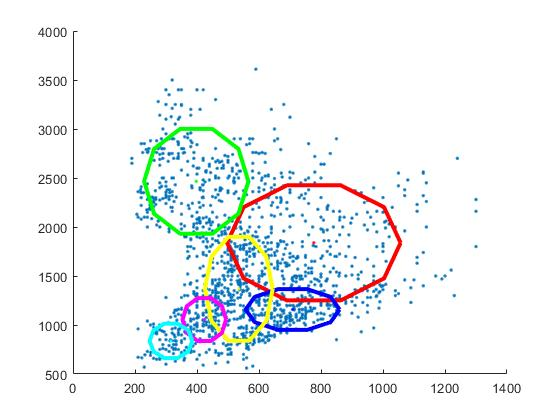
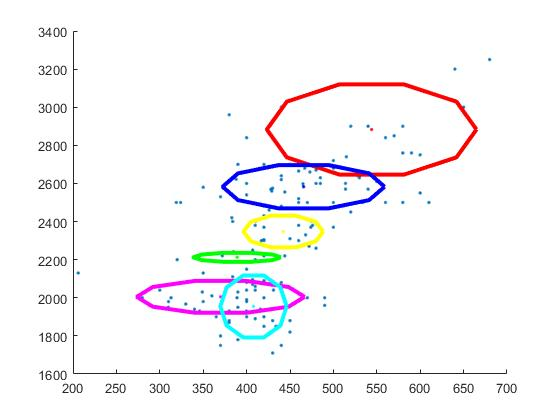
c

diff --git a/Assignment2-2017/code/bayes_classifier.m b/Assignment2-2017/code/bayes_classifier.m
@@ -1,0 +1,29 @@
+function z = bayes_classifier(mu,s2,p,x)
+
+%                m: the mean of the data
+%???????? S: covariance of the data
+%???????? P: data category distribution probability
+%???????? X: The data we need to test
+
+
+[mu_n,mu_k] = size(mu);
+[n, ~] = size(x);
+
+for i = 1:n
+    
+    for j = 1:mu_k
+        
+        z = ( 1/( (2*pi)^(1/2)*det(s2(:,:,j))^0.5 ) ) * exp( -0.5*(x(i,:)-mu(:,j))'*inv(s2(:,:,j)).*(x(i,:)-mu(:,j)') );
+        t(:,:,j) = p(1,j) .* z;
+        
+        
+    end
+    [~, ~,z(i)] = max(t,[],3);
+    
+  %  for j=1:mu_k
+  %      Z(:,j) = p(i)*det(s2(:,:,i))^(-0.5)*exp(-0.5*sum((x'-repmat(mu(:,:,j),1,n))'*inv(s2(:,:,j)).*(x'-repmat(mu(:,:,j),1,n))',2));
+  %  end
+  %  Z = Z./repmat(sum(Z,2),1,k);
+    
+end
+

diff --git a/Assignment2-2017/code/task3.m b/Assignment2-2017/code/task3.m
@@ -1,19 +1,16 @@
 
-x = [f1, f2];
+x = x1;
 [n, D] = size(x);
 
 
 
-mean = (sum(transpose(x))')/n;    % Mean
-variance = zeros(1);              % variance
+mean = (sum(x))/n;    % Mean
+variance = zeros(1,2);              % variance
 
 k = 3;                              % number of components
 for i = 1:n
-    variance = variance + (x(i, :)- mean) * ((x(i, :) - mean)');
+    variance = variance + (x(i, :)- mean) .* ((x(i, :) - mean));
 end
 variance = variance/n;
 
-plot(x(:,1),x(:,2),'.');
-for i=1:k
-    plot_gaussian(2*s2(:,:,i),mu(:,i),i,11);
-end
+

diff --git a/Assignment2-2017/code/mog.m b/Assignment2-2017/code/mog.m
@@ -4,7 +4,22 @@
 % (http://www.gatsby.ucl.ac.uk/~zoubin/course02/)
 
 % Initialise parameters
-x = [f1, f2];
+[number,~] = size(phno);
+
+count_phno1 = 1;
+count_phno2 = 1;
+for i = 1:number
+    if phno(i) == 1
+        x1(count_phno1,:) = [f1(i),f2(i)];
+        count_phno1 =count_phno1 + 1;
+    end
+    
+    if phno(i) == 2
+        x2(count_phno2,:) = [f1(i),f2(i)];
+        count_phno2 =count_phno2 + 1;
+    end
+end
+x = x1;
 
 
 [n, D] = size(x);                    % number of observations (n) and dimension (D)

diff --git a/Assignment2-2017/code/README.md b/Assignment2-2017/code/README.md
@@ -23,7 +23,23 @@ The result figures:
 In the *mog.m* file, adding the code below to generate a dataset **x** that contains only the F1 and F2.
 ``` matlab
 %% task 2
-x = [f1,f2];
+[number,~] = size(phno);
+
+count_phno1 = 1;
+count_phno2 = 1;
+for i = 1:number
+    if phno(i) == 1
+        x1(count_phno1,:) = [f1(i),f2(i)];
+        count_phno1 =count_phno1 + 1;
+    end
+    
+    if phno(i) == 2
+        x2(count_phno2,:) = [f1(i),f2(i)];
+        count_phno2 =count_phno2 + 1;
+    end
+end
+
+x = x1;
 ```
 
 After running the *mog.m* file, the results show below:
@@ -37,36 +53,38 @@ The result MoG model:
 
  - *mu* is a 2*3 matrix, the value is:
  ``` matlab
- [690.661838253766,	404.202156193634,	508.372658094110;
-  1675.70274807955,	2456.78563231166,	1038.63235397572]
+ mu = [312.710439163323,	270.394427119210,	350.944427310065;
+2784.44469003590e+03,	2285.45797383453e+03,	3229.23625856582e+03]
  ```
  - *p* is a 1*3 matrix, the value is:
  ``` matlab
- [0.427581620535091,	0.220953327742586,	0.351465051722323]
+ p = [0.382687297465680,	0.435128587673123,	0.182184114861197]
  ```
  - *s2* is a 2 * 2 * 3 matrix, the value is:
  ``` matlab
-% 1
- val(:,:,1) =
+val(:,:,1) =
 
-   1.0e+05 *
+   1.0e+03 *
 
-    0.3941         0
-         0    1.8337
-% 2
- val(:,:,2) =
+    3.5603         0
+         0    7.7339
 
-    1.0e+05 *
 
-    0.1459         0
-         0    1.7131
-% 3
- val(:,:,3) =
+val(:,:,2) =
 
-    1.0e+04 *
+   1.0e+04 *
 
-    1.9382         0
-         0    4.1103
+    0.1214         0
+         0    1.4277
+
+
+val(:,:,3) =
+
+   1.0e+04 *
+
+    0.4118         0
+         0    2.7091
+
 
  ```
 
@@ -80,67 +98,68 @@ The result graph:
 The result MoG model:
 - *mu* is a 2*6 matrix, the value is:
 ``` matlab
-[744.162028008441,	307.667803063159,	690.214938663720,	518.936700033178,	836.066392992784,	438.454558316017;
-1373.23712075701,	2566.81765395673,	1088.89401151918,	1871.59270273412,	2120.55716547366,	945.419330479210]
+[333.301151546791,	309.171182344323,	314.443682651265,	284.247267200079,	244.957501372368,	458.465969387509;
+3172.63228243276e+03,	2325.24372449017e+03,	2781.85307474120e+03,	2591.94227735183e+03,	2237.62777390853e+03,	3416.81380642650e+03]
 ```
 - *p* is a 1*6 matrix, the value is:
 ``` matlab
-[0.183916090407898,	0.111918038583354,	0.0784842058796250,	0.319453067282065,	0.0950378595991892,	0.211190738247869]
+[0.171249509264198,	0.150221313489049,	0.335031245076133,	0.0695248642416978,	0.248124309467916,	0.0258487584610062]
 ```
 - *s2* is a 2 * 2 * 6 matrix, the value is:
 ``` matlab
-% 1
+
 val(:,:,1) =
 
    1.0e+04 *
 
-    2.9827         0
-         0    3.8874
+    0.1242         0
+         0    2.7331
 
-% 2
+
 val(:,:,2) =
 
-   1.0e+05 *
+   1.0e+03 *
 
-    0.0331         0
-         0    1.4648
+    0.2779         0
+         0    5.7640
 
-% 3
+
 val(:,:,3) =
 
    1.0e+03 *
 
-    3.5675         0
-         0    8.6133
+    3.9580         0
+         0    6.8954
 
-% 4
+
 val(:,:,4) =
 
-   1.0e+05 *
+   1.0e+04 *
 
-    0.0878         0
-         0    2.8551
+    0.0024         0
+         0    3.1738
 
-% 5
+
 val(:,:,5) =
 
-   1.0e+05 *
+   1.0e+04 *
 
-    0.3662         0
-         0    1.0893
+    0.0366         0
+         0    1.3749
 
-% 6
+
 val(:,:,6) =
 
    1.0e+04 *
 
-    1.1697         0
-         0    2.8179
+    0.7479         0
+         0    1.6615
+
 ```
 
 
 
-*3. Repeat, K = 6:*
+*3. K = 6 for 2nd phoneme:*
 
 The result graph:
 ![img](1-1-4.jpg)
@@ -148,8 +167,8 @@ The result graph:
 The result MoG model:
 - *mu* is a 2*6 matrix, the value is:
 ``` matlab
-[776.897194405139,	397.623176012133,	708.461729660163,	534.918753062421,	423.669314996141,	315.893562022206;
-1838.58569832185,	2466.08602663912,	1157.92070808377,	1369.24556245440,	1055.76867779168,	838.149393127401]
+[462.096728152815,	341.288624284047,	554.455937237460,	407.224172774509,	412.066806889080,	484.150454399473;
+2537.79782907643e+03,	2022.17860446435e+03,	2874.75460842888e+03,	1909.26302516365e+03,	2157.28387569415e+03,	1985.93949485214e+03]
 ```
 - *p* is a 1*6 matrix, the value is:
 ``` matlab
